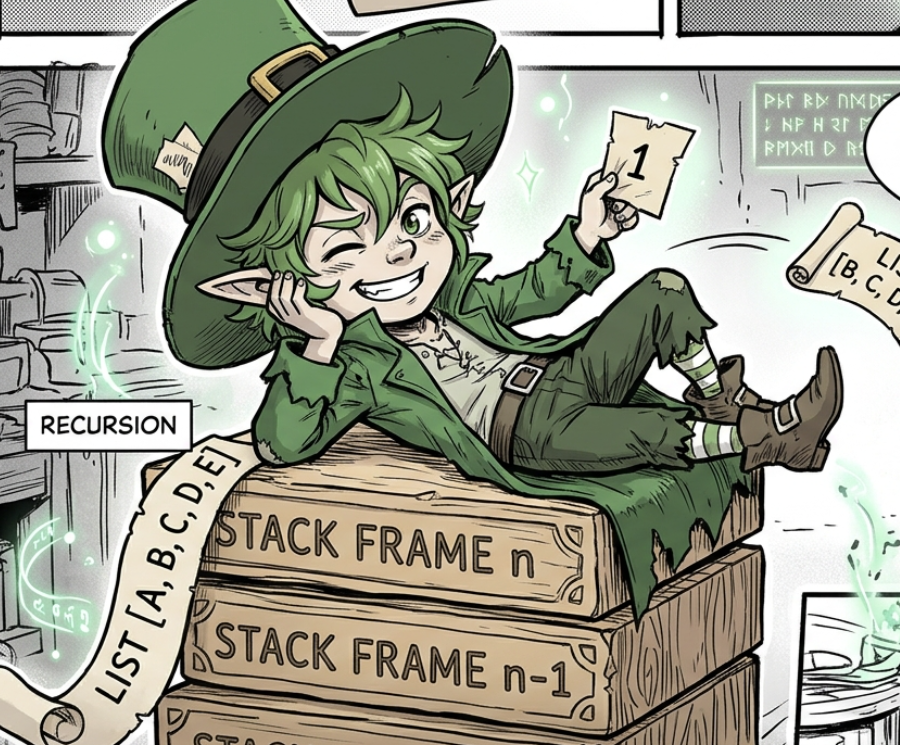
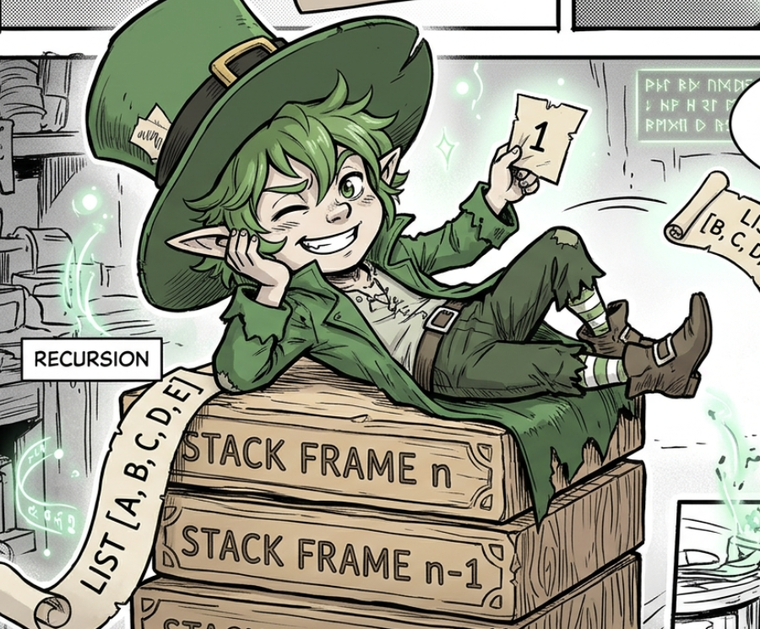
terminale : le lutin à 380 pixels, et la section sur l'IA retirée
L'image prenait toute la largeur de la colonne. Elle est affichée à 380
pixels, centrée, et le fichier est réencodé à 760 pixels de large, soit deux
fois la taille d'affichage : 1,3 Mo tombent à 850 Ko sans perte visible.

« Ce que l'IA ne change pas » disparaît. Le coût, les exercices et le renvoi
vers le Python remontent en 3, 4 et 5.

Changed region(s): [[0.7566, 0.0, 0.9987, 0.0604], [0.0, 0.0, 0.1211, 0.0302]]

diff --git a/docs/terminale/structures-de-donnees/listes/listes.md b/docs/terminale/structures-de-donnees/listes/listes.md
@@ -216,7 +216,7 @@ pub fn taille(lst: Liste(a)) -> Int {
 
 Le raisonnement du lutin : *« Compter toute la liste ? Pas question. Je regarde ce que je reçois. Ou bien c'est `Vide`, et je réponds 0, ça ne me coûte rien. Ou bien c'est une tête et une queue : je donne la queue à un autre lutin, et je réponds 1, pour ma tête, plus sa réponse. »*
 
-![Un lutin avachi sur une pile de cadres d'appel, sa réponse à la main](lutin-pile.png)
+![Un lutin avachi sur une pile de cadres d'appel, sa réponse à la main](lutin-pile.png){ style="width: 380px; display: block; margin: 0 auto" }
 
 - `_` remplace `tete` : ici on **ignore** la valeur de la tête (on n'en a pas besoin pour compter).
 
@@ -653,17 +653,11 @@ C'est exactement la **récurrence** de ton cours de maths : un cas pour 0, puis 
 
         Le cas de base n'est plus `Vide` mais `n == 0` : la graine `n` **décroît** à chaque appel jusqu'à 0.
 
-## 3 Ce que l'IA ne change pas
-
-!!! tip
-    Une IA écrit `taille`, `somme` ou `inverser` en une seconde, en Gleam comme en Python.
-
-    Ce qui est en jeu n'est pas ce qu'elle sait faire, c'est ce que **tu** sais faire sans elle : **énoncer les deux cas** (que se passe-t-il si la liste est vide ? et sinon ?), et reconnaître un raisonnement récursif correct quand tu en lis un. C'est exactement ce que l'épreuve pratique évalue, et c'est ce qui te permet de refuser une réponse fausse au lieu de la recopier. Gleam t'y aide : les **types** et l'**exhaustivité des cas** attrapent une grande partie des erreurs avant même l'exécution.
-## 4 Le coût
+## 3 Le coût
 
 On appelle $T(n)$ le **nombre d'opérations élémentaires** (comparaisons, additions, appels) effectuées par une fonction sur une liste de taille $n$. Une fonction récursive s'appelle elle-même sur une liste plus courte : son coût $T(n)$ s'exprime donc à partir de $T(n-1)$. C'est une **suite récurrente**, et calculer le coût, c'est trouver sa **forme générale**.
 
-### 4.1 Exemple : la taille
+### 3.1 Exemple : la taille
 
 ```gleam
 pub fn taille(lst: Liste(a)) -> Int {
@@ -683,7 +677,7 @@ $$T(n) = a + b \times n$$
 
 Le coût est proportionnel à $n$ : il est **linéaire**, en $O(n)$. Les valeurs exactes de $a$ et de $b$ ne comptent pas, seule la **forme** de la suite décide.
 
-### 4.2 À toi : `ajouter_fin` et `inverser`
+### 3.2 À toi : `ajouter_fin` et `inverser`
 
 !!! question "Le coût de `inverser`"
     1. Écris la relation de récurrence du coût $A(n)$ de `ajouter_fin(lst, x)`, pour une liste `lst` de taille $n$. Quelle est sa forme générale ?
@@ -711,14 +705,14 @@ Le coût est proportionnel à $n$ : il est **linéaire**, en $O(n)$. Les valeurs
     ??? success "Ce qu'on observe"
         `inverser` fait un appel par élément ($n$ appels), et **chaque** appel relance `ajouter_fin`, qui reparcourt toute la liste déjà renversée (de longueur $0$, puis $1$, puis $2$…). On retrouve la somme $0 + 1 + \dots + (n-1)$ du calcul.
 
-## 5 Exercices
+## 4 Exercices
 
 !!! tip "Comment t'entraîner"
     Écris chaque fonction **en Gleam**, avec `case`. Fais la **disjonction de cas au papier** avant de coder. Sous chaque exercice, son **test** à coller dans `test/liste_test.gleam`, puis son corrigé. (Pour `to_str`, ajoute `import gleam/int` en tête de `src/liste.gleam`.)
 
     Quand tu les auras toutes, tu les réécriras **en Python** : c'est l'objet de la page [Transcription en Python](transcription-python.md), où les algorithmes seront déjà les tiens et où il ne restera que la syntaxe.
 
-### 5.1 Lire une liste
+### 4.1 Lire une liste
 
 !!! question "to_str"
     Écris `to_str(lst: Liste(Int)) -> String`, qui renvoie une chaîne façon `"2 -> 3 -> 4 -> _|_"` (la liste vide donne `"_|_"`).
@@ -813,9 +807,9 @@ Le coût est proportionnel à $n$ : il est **linéaire**, en $O(n)$. Les valeurs
         }
         ```
 
-### 5.2 Construire une liste
+### 4.2 Construire une liste
 
-#### 5.2.1 Prendre, sauter, supprimer
+#### 4.2.1 Prendre, sauter, supprimer
 
 !!! question "take"
     Écris `take(lst: Liste(a), n: Int) -> Liste(a)`, qui renvoie les `n` premiers éléments. `take(2 -> 3 -> 4, 2)` donne `2 -> 3`. Si `n` dépasse la taille, on prend tout.
@@ -969,7 +963,7 @@ Le coût est proportionnel à $n$ : il est **linéaire**, en $O(n)$. Les valeurs
         }
         ```
 
-#### 5.2.2 Par filtrage : vers `filter`
+#### 4.2.2 Par filtrage : vers `filter`
 
 On **garde** certains éléments selon une **condition**, comme `somme_pairs` l'a fait pour additionner. Écris ces trois fonctions, puis regarde ce qu'elles ont en commun.
 
@@ -1088,7 +1082,7 @@ filter(fn(x) { x % 2 == 0 }, lst)   // les pairs, sans écrire une ligne de plus
         }
         ```
 
-#### 5.2.3 Par transformation : vers `map`
+#### 4.2.3 Par transformation : vers `map`
 
 Cette fois, on ne **garde** pas : on **transforme** chaque élément. Écris ces trois fonctions.
 
@@ -1190,6 +1184,6 @@ map(fn(x) { 3 * x }, lst)   // les triples
 !!! tip "`filter` choisit, `map` transforme"
     `filter` **garde** ou **jette** des éléments (la liste peut rétrécir), alors que `map` **transforme** chaque élément (la liste garde sa taille). Ce sont deux outils très courants, et tu viens de les redécouvrir en remarquant que plusieurs fonctions n'en faisaient qu'une.
 
-## 6 Et maintenant, en Python
+## 5 Et maintenant, en Python
 
 Tu as les algorithmes. Il reste à les écrire dans le langage de l'épreuve, et c'est l'objet de la page suivante : [Transcription en Python](transcription-python.md). La structure y est la même, portée par des primitives `vide`, `cons`, `tete`, `queue` et `est_vide`, et chaque fonction y retrouve la sienne.
